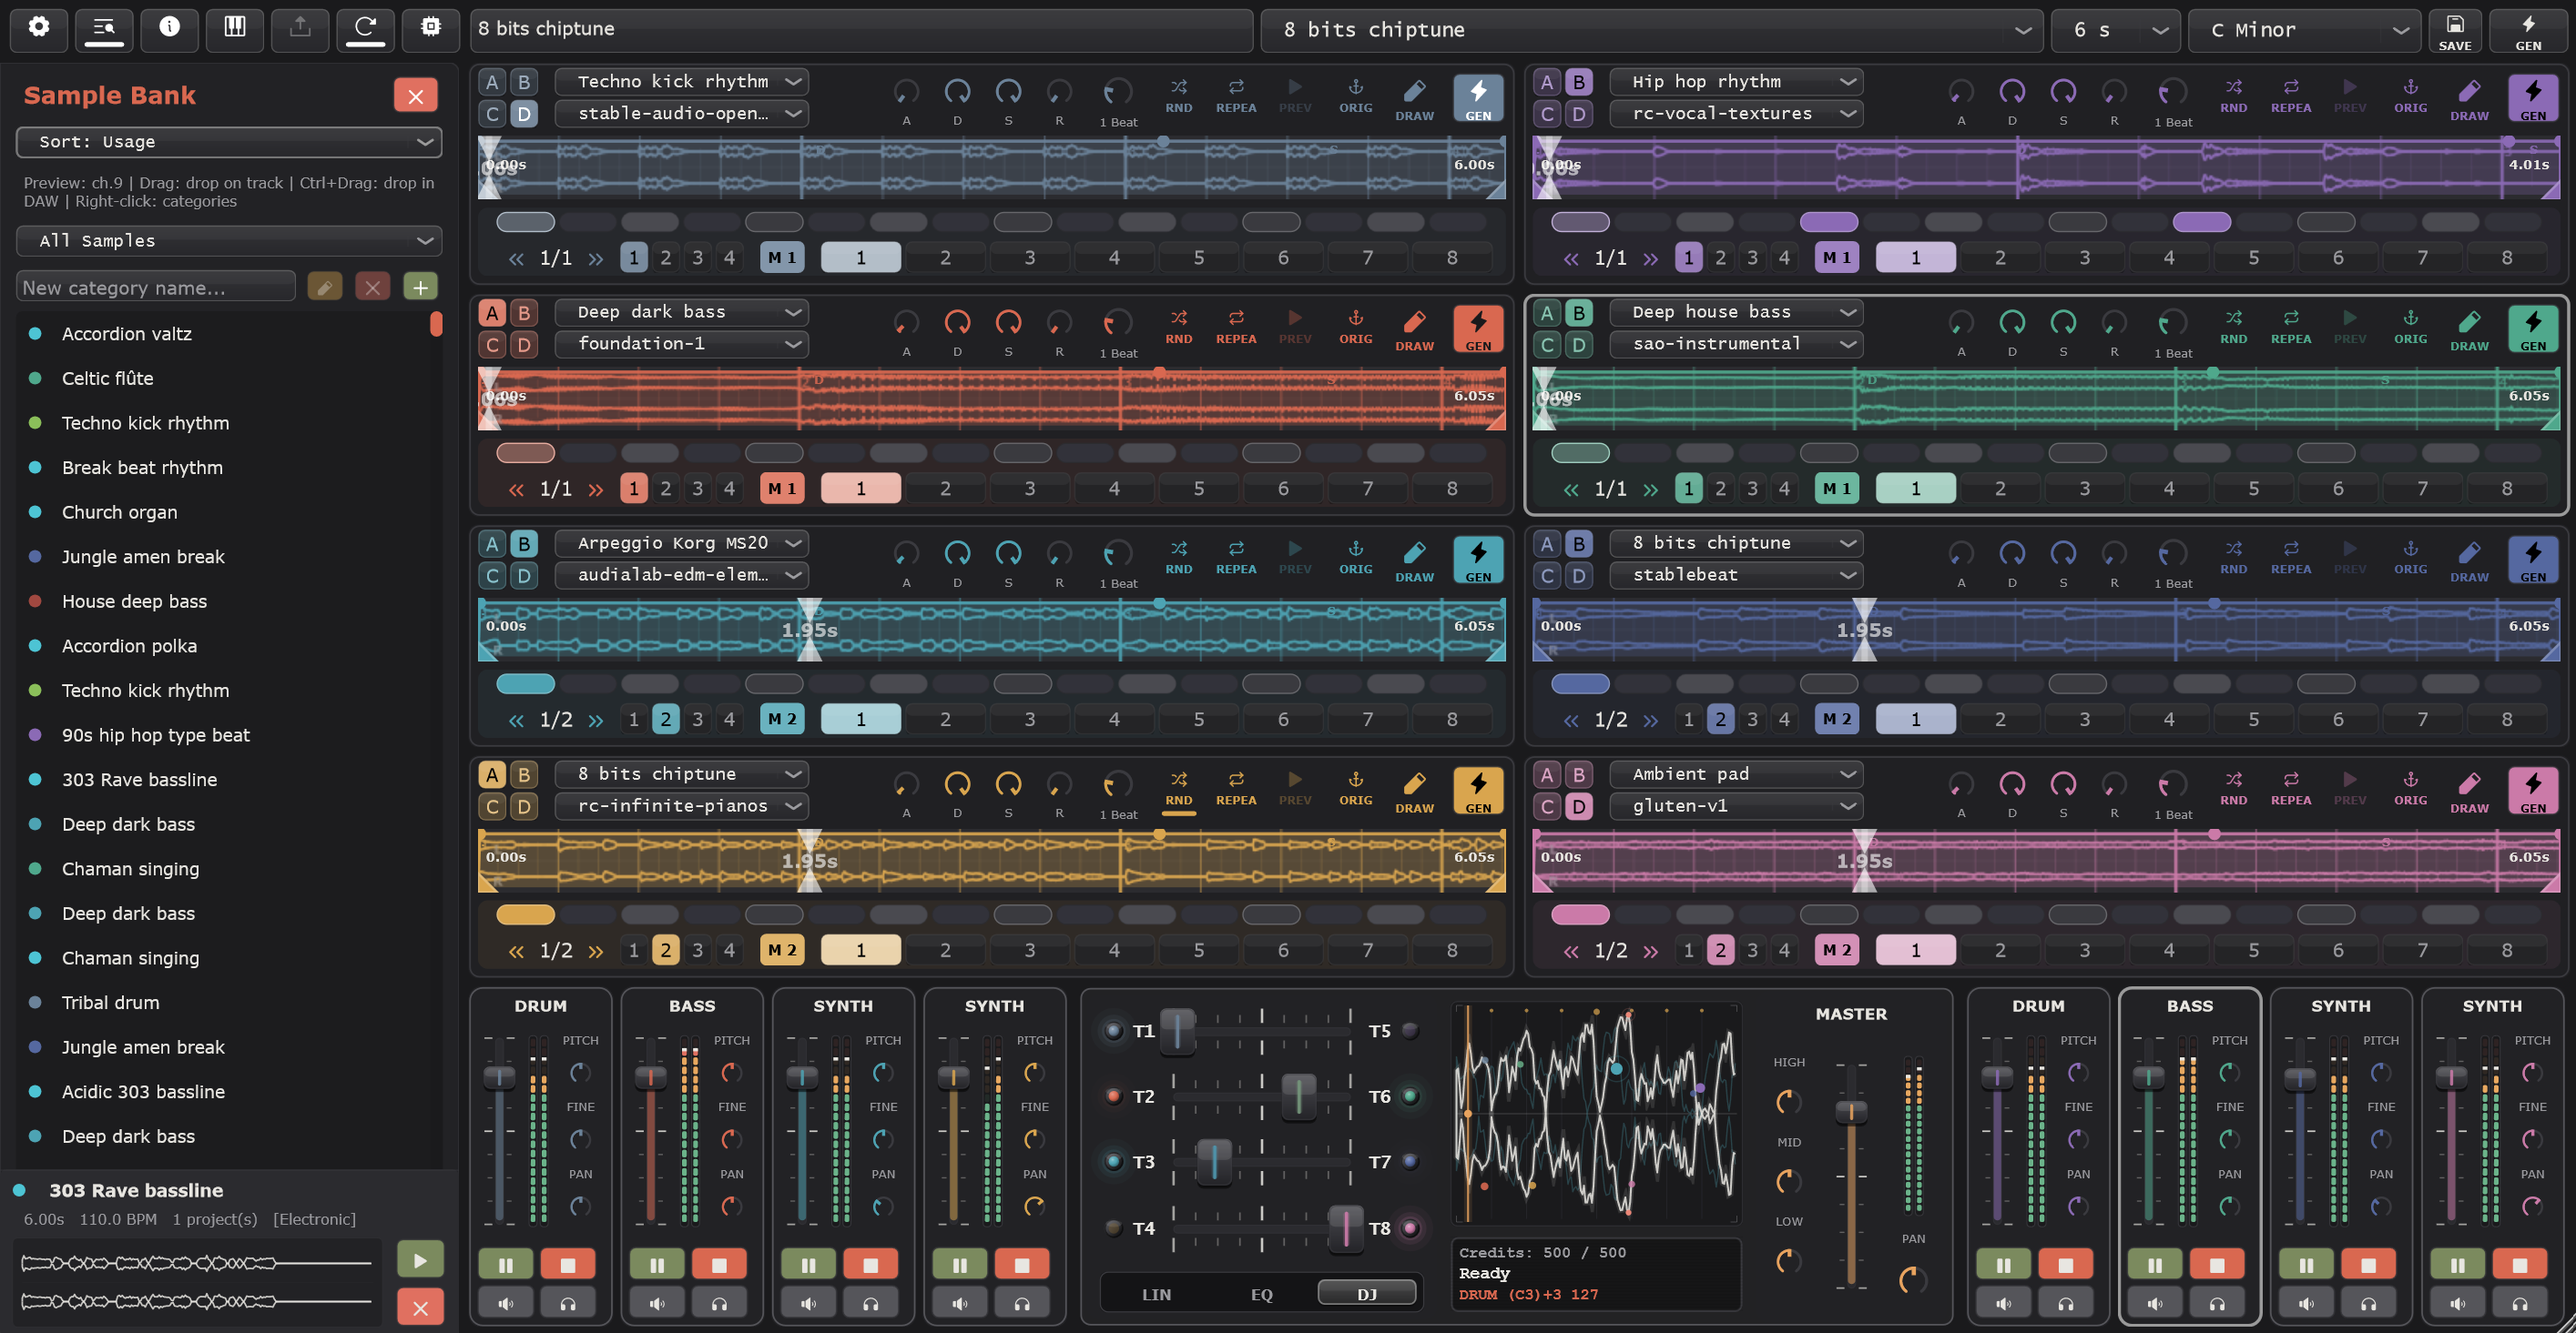
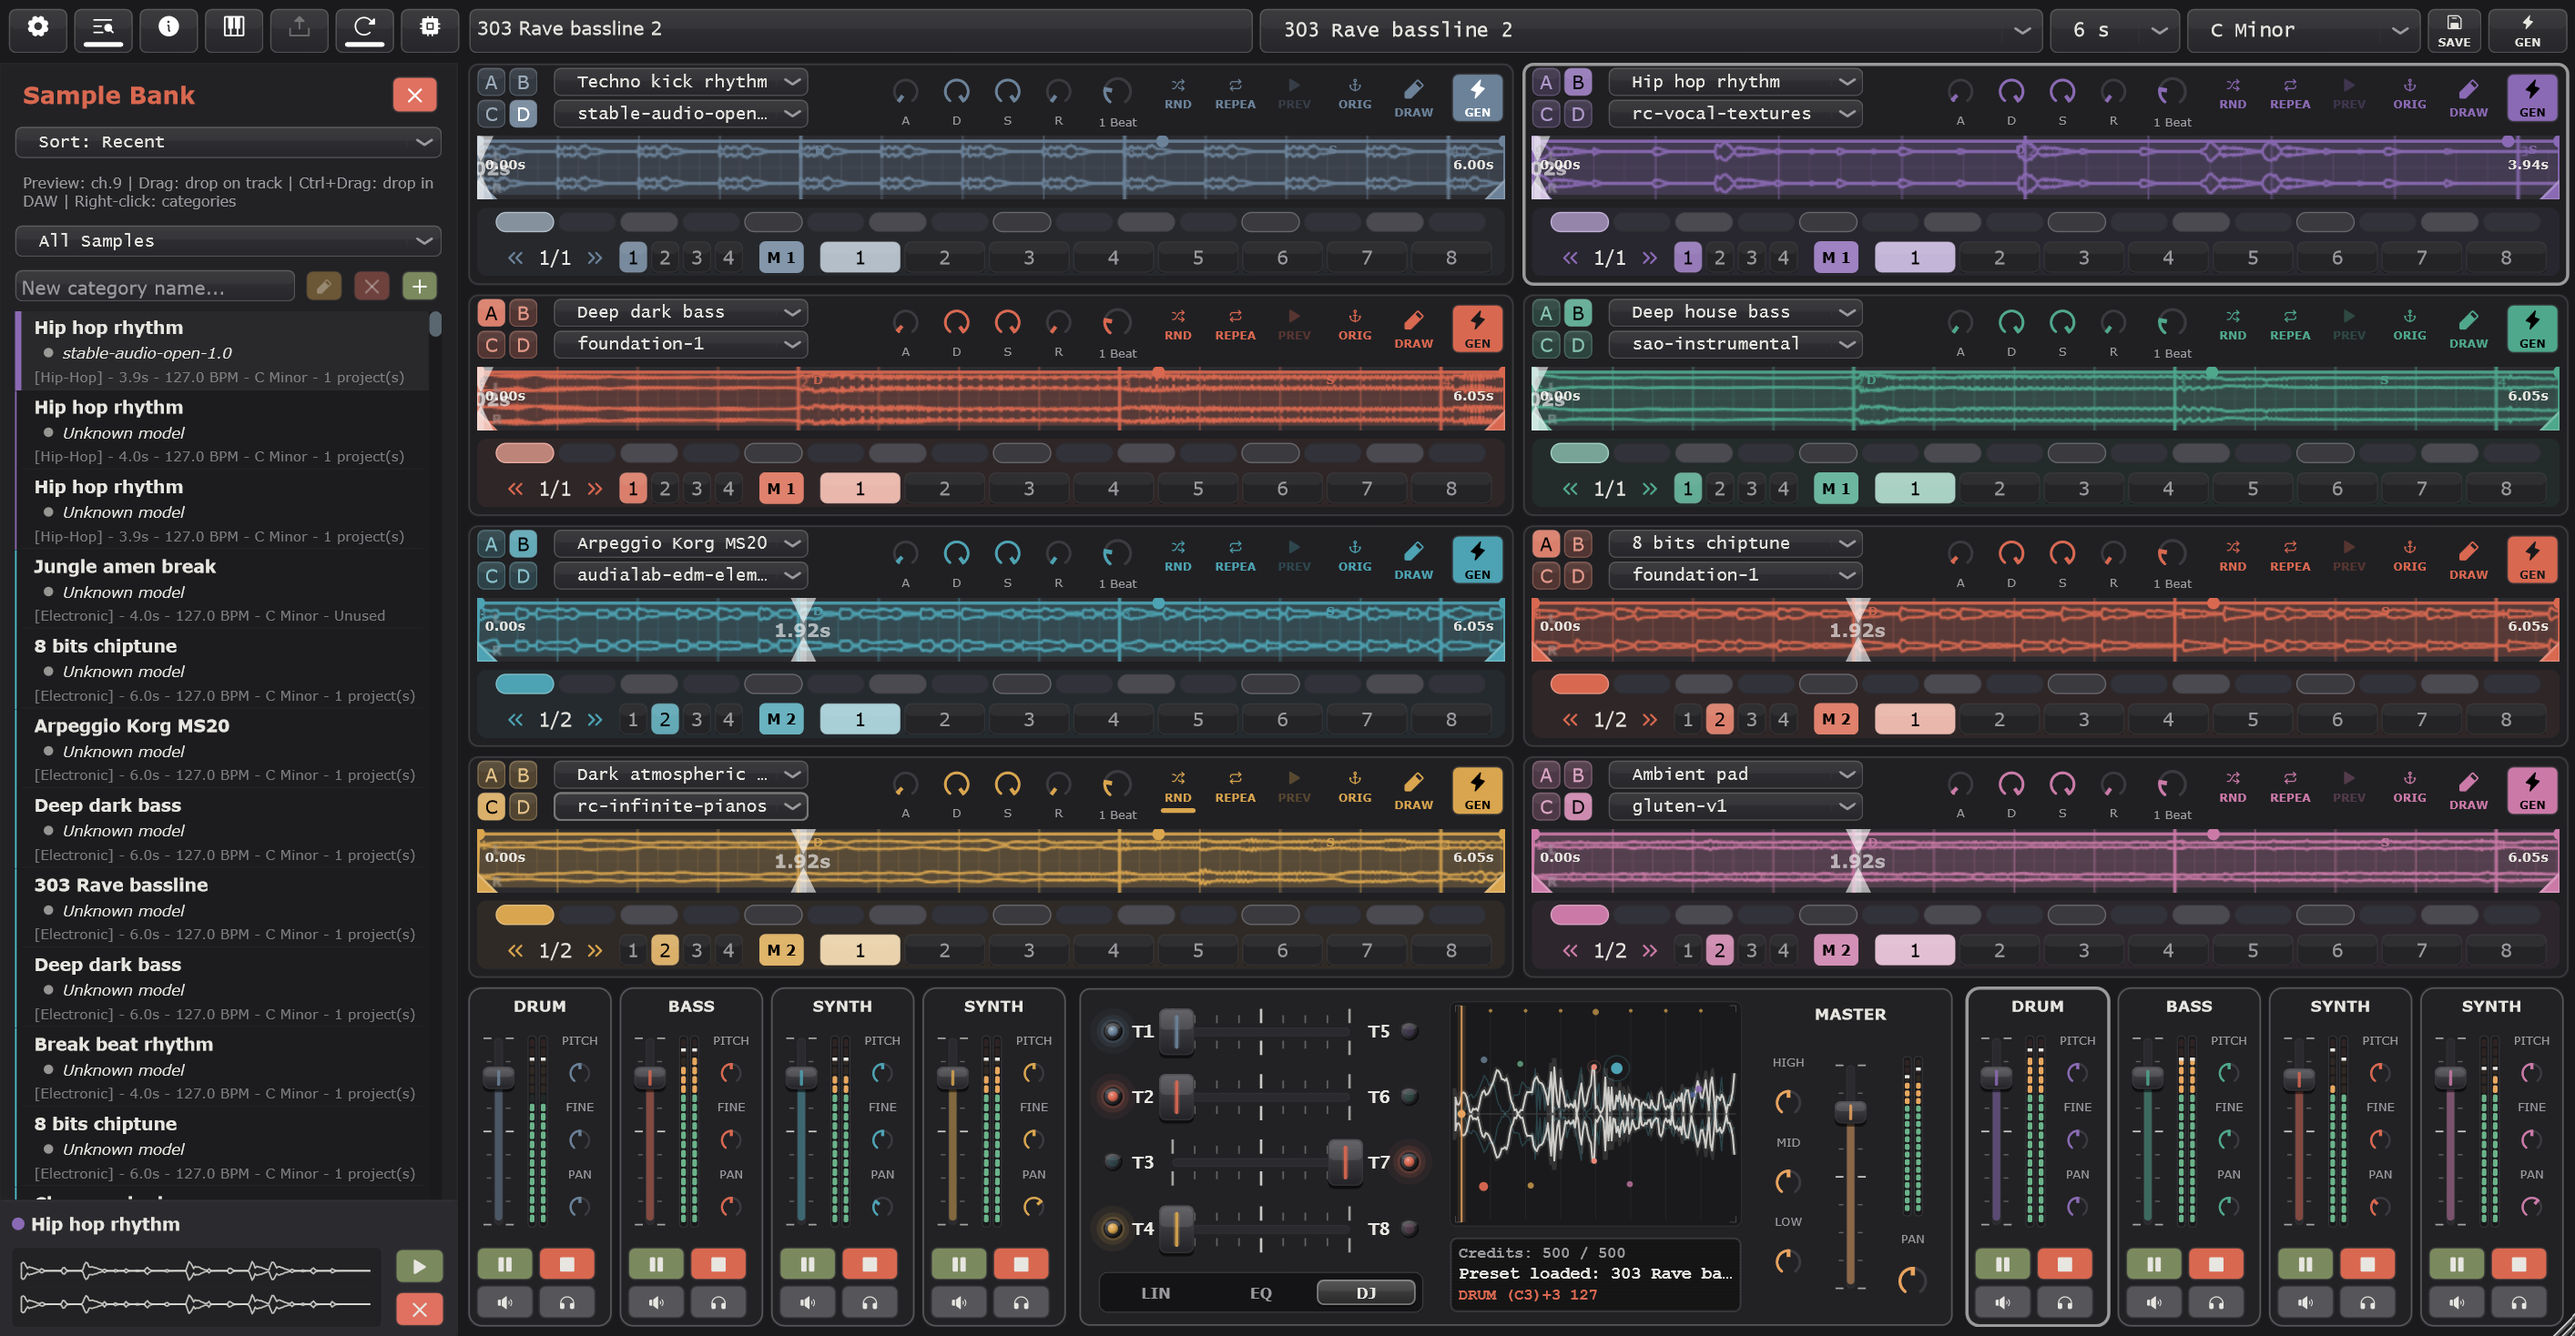
display model in sample bank item

diff --git a/vst/src/components/bank/SampleBankPanel.cpp b/vst/src/components/bank/SampleBankPanel.cpp
@@ -8,11 +8,6 @@
 SampleBankItem::SampleBankItem(SampleBankEntry* entry, DjIaVstProcessor& processor)
 	: sampleEntry(entry), audioProcessor(processor)
 {
-	addAndMakeVisible(nameLabel);
-	nameLabel.setColour(juce::Label::textColourId, ColourPalette::textPrimary);
-	nameLabel.setFont(juce::FontOptions(13.0f));
-	nameLabel.setText(entry->originalPrompt, juce::dontSendNotification);
-	nameLabel.setInterceptsMouseClicks(false, false);
 	setSize(400, 52);
 }
 
@@ -48,6 +43,33 @@ void SampleBankItem::paint(juce::Graphics& g)
 		g.fillRect(0.0f, 0.0f, 4.0f, (float)bounds.getHeight());
 	}
 
+	{
+		auto nameArea = bounds.removeFromTop(20).withTrimmedLeft(12).withTrimmedRight(48);
+
+		juce::AttributedString attr;
+		attr.setJustification(juce::Justification::centredLeft);
+
+		attr.append(sampleEntry->originalPrompt,
+			juce::FontOptions(13.0f, juce::Font::bold),
+			ColourPalette::textPrimary);
+
+		attr.draw(g, nameArea.toFloat());
+	}
+
+	auto modelArea = bounds.removeFromTop(12).withTrimmedLeft(12).withTrimmedRight(48);
+
+	auto circleArea = modelArea.removeFromLeft(18);
+	circleArea = circleArea.withSizeKeepingCentre(6, 6);
+
+	g.setColour(ColourPalette::textPrimary.withAlpha(0.6f));
+	g.fillEllipse(circleArea.toFloat());
+
+	juce::String displayName = sampleEntry->modelName.isNotEmpty() ? sampleEntry->modelName : "Unknown model";
+
+	g.setFont(juce::FontOptions(11.5f, juce::Font::italic));
+	g.setColour(ColourPalette::textPrimary);
+	g.drawText(displayName, modelArea, juce::Justification::centredLeft, true);
+
 	g.setColour(ColourPalette::backgroundLight.withAlpha(0.3f));
 	g.drawLine(4.0f, (float)bounds.getBottom() - 1.0f,
 		(float)bounds.getWidth() - 4.0f, (float)bounds.getBottom() - 1.0f, 0.5f);
@@ -78,9 +100,6 @@ void SampleBankItem::paint(juce::Graphics& g)
 	else
 		parts.add(juce::String(usageCount) + " project(s)");
 
-	if (sampleEntry->modelName.isNotEmpty())
-		parts.add("[" + sampleEntry->modelName + "]");
-
 	g.setColour(ColourPalette::textSecondary.withAlpha(0.75f));
 	g.setFont(juce::FontOptions(10.5f));
 	g.drawText(parts.joinIntoString(" - "), metaArea, juce::Justification::centredLeft, true);
@@ -96,8 +115,7 @@ void SampleBankItem::paint(juce::Graphics& g)
 
 void SampleBankItem::resized()
 {
-	auto b = getLocalBounds().withTrimmedLeft(8).withTrimmedRight(4);
-	nameLabel.setBounds(b.removeFromTop(28));
+
 }
 
 juce::Colour SampleBankItem::getCategoryColor(const juce::String& category)
@@ -224,7 +242,7 @@ DetailPanel::DetailPanel()
 {
 	addAndMakeVisible(nameLabel);
 	nameLabel.setColour(juce::Label::textColourId, ColourPalette::textPrimary);
-	nameLabel.setFont(juce::FontOptions(13.0f, juce::Font::bold));
+	nameLabel.setFont(juce::FontOptions(13.0f));
 
 	addAndMakeVisible(metaLabel);
 	metaLabel.setColour(juce::Label::textColourId, ColourPalette::textSecondary);
@@ -293,7 +311,11 @@ void DetailPanel::setEntry(SampleBankEntry* e)
 		metaLabel.setText("", juce::dontSendNotification);
 		return;
 	}
-	nameLabel.setText(entry->originalPrompt, juce::dontSendNotification);
+
+	juce::String nameText = entry->originalPrompt;
+	if (entry->modelName.isNotEmpty())
+		nameText += " - " + entry->modelName;
+	nameLabel.setText(nameText, juce::dontSendNotification);
 
 	juce::StringArray parts;
 	parts.add(formatDuration(entry->duration));
@@ -399,15 +421,25 @@ void DetailPanel::paint(juce::Graphics& g)
 	g.fillRoundedRectangle(bounds.toFloat(), 4.0f);
 	g.setColour(ColourPalette::backgroundLight.withAlpha(0.4f));
 	g.drawLine(0.0f, 0.5f, (float)bounds.getWidth(), 0.5f, 1.0f);
+
 	if (entry && !entry->categories.empty())
 	{
-		auto nb = nameLabel.getBounds();
-		float cy = nb.toFloat().getCentreY();
-		juce::Colour col = this->categoryColourResolver ? this->categoryColourResolver(entry->categories[0])
+		float cy = 6.0f + 18.0f * 0.5f;
+		juce::Colour col = this->categoryColourResolver
+			? this->categoryColourResolver(entry->categories[0])
 			: getCategoryColor(entry->categories[0]);
 		g.setColour(col);
 		g.fillEllipse(8.0f, cy - 4.0f, 8.0f, 8.0f);
 	}
+
+	if (entry)
+	{
+		auto nameArea = juce::Rectangle<int>(20, 6, getWidth() - 80, 18);
+		g.setColour(ColourPalette::textPrimary);
+		g.setFont(juce::FontOptions(13.0f, juce::Font::bold));
+		g.drawText(entry->originalPrompt, nameArea, juce::Justification::centredLeft, true);
+	}
+
 	drawWaveform(g);
 }
 
@@ -492,21 +524,12 @@ void DetailPanel::drawWaveform(juce::Graphics& g)
 void DetailPanel::resized()
 {
 	auto area = getLocalBounds().reduced(6, 4);
-
-	auto topRow = area.removeFromTop(18);
-	nameLabel.setBounds(topRow.withTrimmedLeft(20));
-
-	area.removeFromTop(2);
-
-	auto metaRow = area.removeFromTop(14);
-	metaLabel.setBounds(metaRow.withTrimmedLeft(4));
-
-	area.removeFromTop(3);
-
+	auto titleRow = area.removeFromTop(24);
 	auto bottomRow = area;
 
 	auto btnCol = bottomRow.removeFromRight(36);
 	bottomRow.removeFromRight(4);
+
 	playButton.setBounds(btnCol.removeFromTop(bottomRow.getHeight() / 2).reduced(2));
 	deleteButton.setBounds(btnCol.reduced(2));
 
@@ -678,7 +701,7 @@ void SampleBankPanel::setupUI()
 	sortMenu.addItem("Sort: Usage", SortType::Usage);
 	sortMenu.addItem("Sort: BPM", SortType::BPM);
 	sortMenu.addItem("Sort: Duration", SortType::Duration);
-	sortMenu.setSelectedId(SortType::Prompt);
+	sortMenu.setSelectedId(SortType::Time);
 	sortMenu.onChange = [this]()
 		{
 			currentSortType = static_cast<SortType>(sortMenu.getSelectedId());

diff --git a/vst/src/components/bank/SampleBankPanel.h b/vst/src/components/bank/SampleBankPanel.h
@@ -38,7 +38,6 @@ private:
 	SampleBankEntry* sampleEntry;
 	DjIaVstProcessor& audioProcessor;
 
-	juce::Label nameLabel;
 	bool selected = false;
 	bool isDragging = false;
 
@@ -164,10 +163,10 @@ private:
 	IconButtonSimple deleteCategoryButton{ "DeleteCategory", "" };
 
 	juce::ListBox sampleListBox;
-	static constexpr int ROW_HEIGHT = 44;
+	static constexpr int ROW_HEIGHT = 50;
 
 	DetailPanel detailPanel;
-	static constexpr int DETAIL_HEIGHT = 105;
+	static constexpr int DETAIL_HEIGHT = 86;
 
 	SampleBankEntry* selectedEntry = nullptr;
 	SampleBankEntry* currentPreviewEntry = nullptr;
